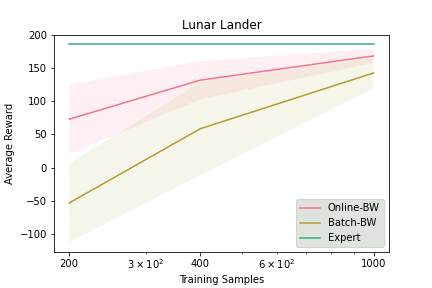
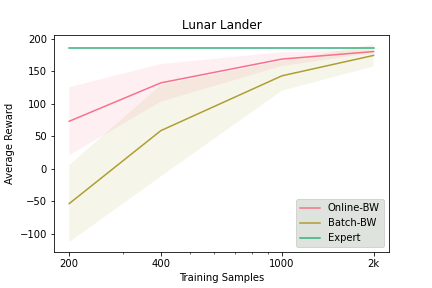
results_online

diff --git a/OnlineBWforHIL_LunarLander/Train_Online_Parallel.py b/OnlineBWforHIL_LunarLander/Train_Online_Parallel.py
@@ -68,7 +68,7 @@ def DifferentTrainingSet(i, nTraj, TrainingSet_tot, Labels_tot, TimeBatch, seed)
     option_space = 2
         
     #Stopping Time
-    StoppingTime = TimeBatch[i]
+    StoppingTime = TimeBatch[3]
         
     # Online BW for HIL with tabular parameterization: Training
     M_step_epoch = 30
